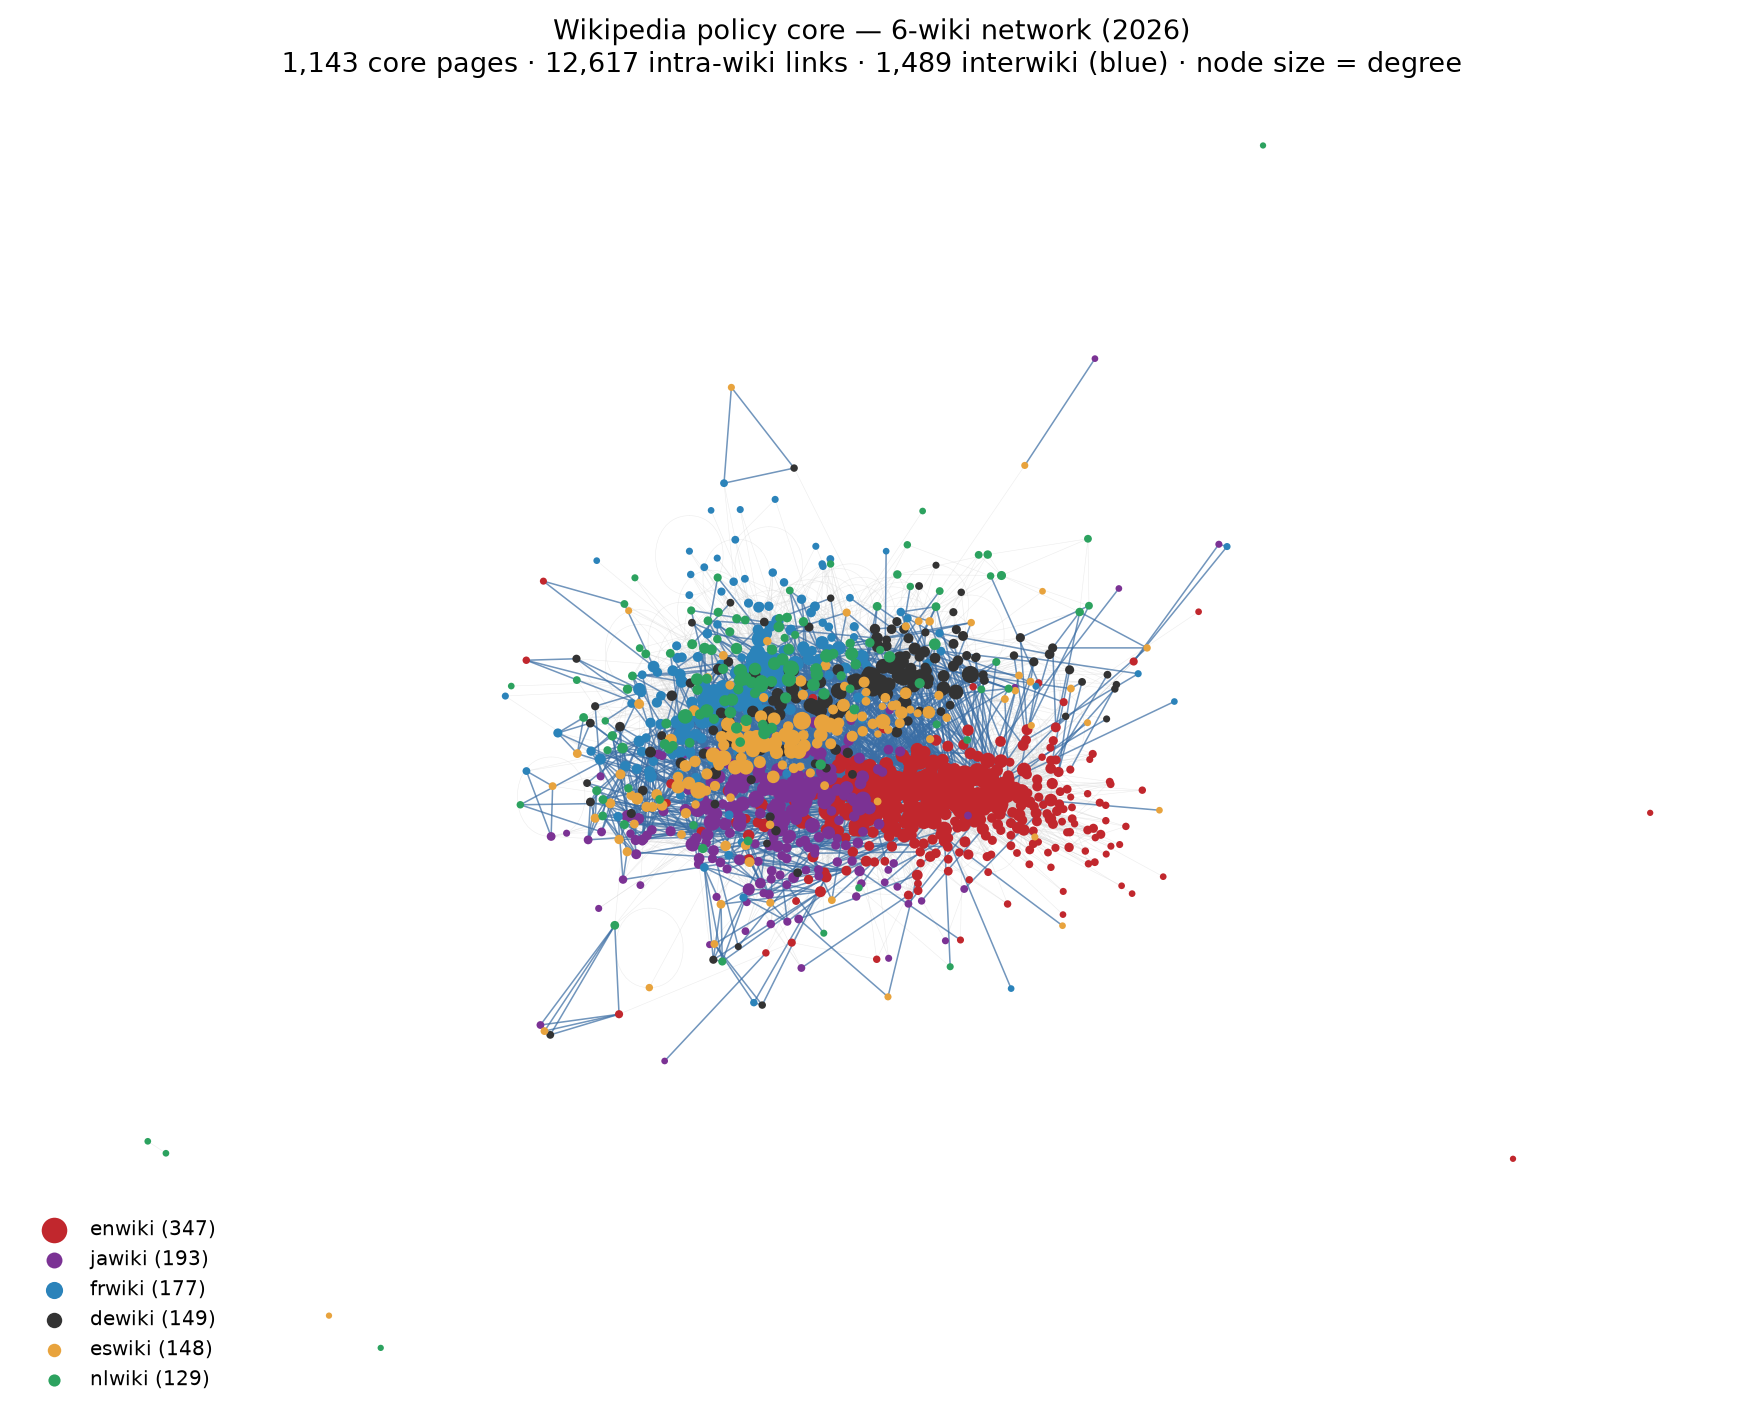
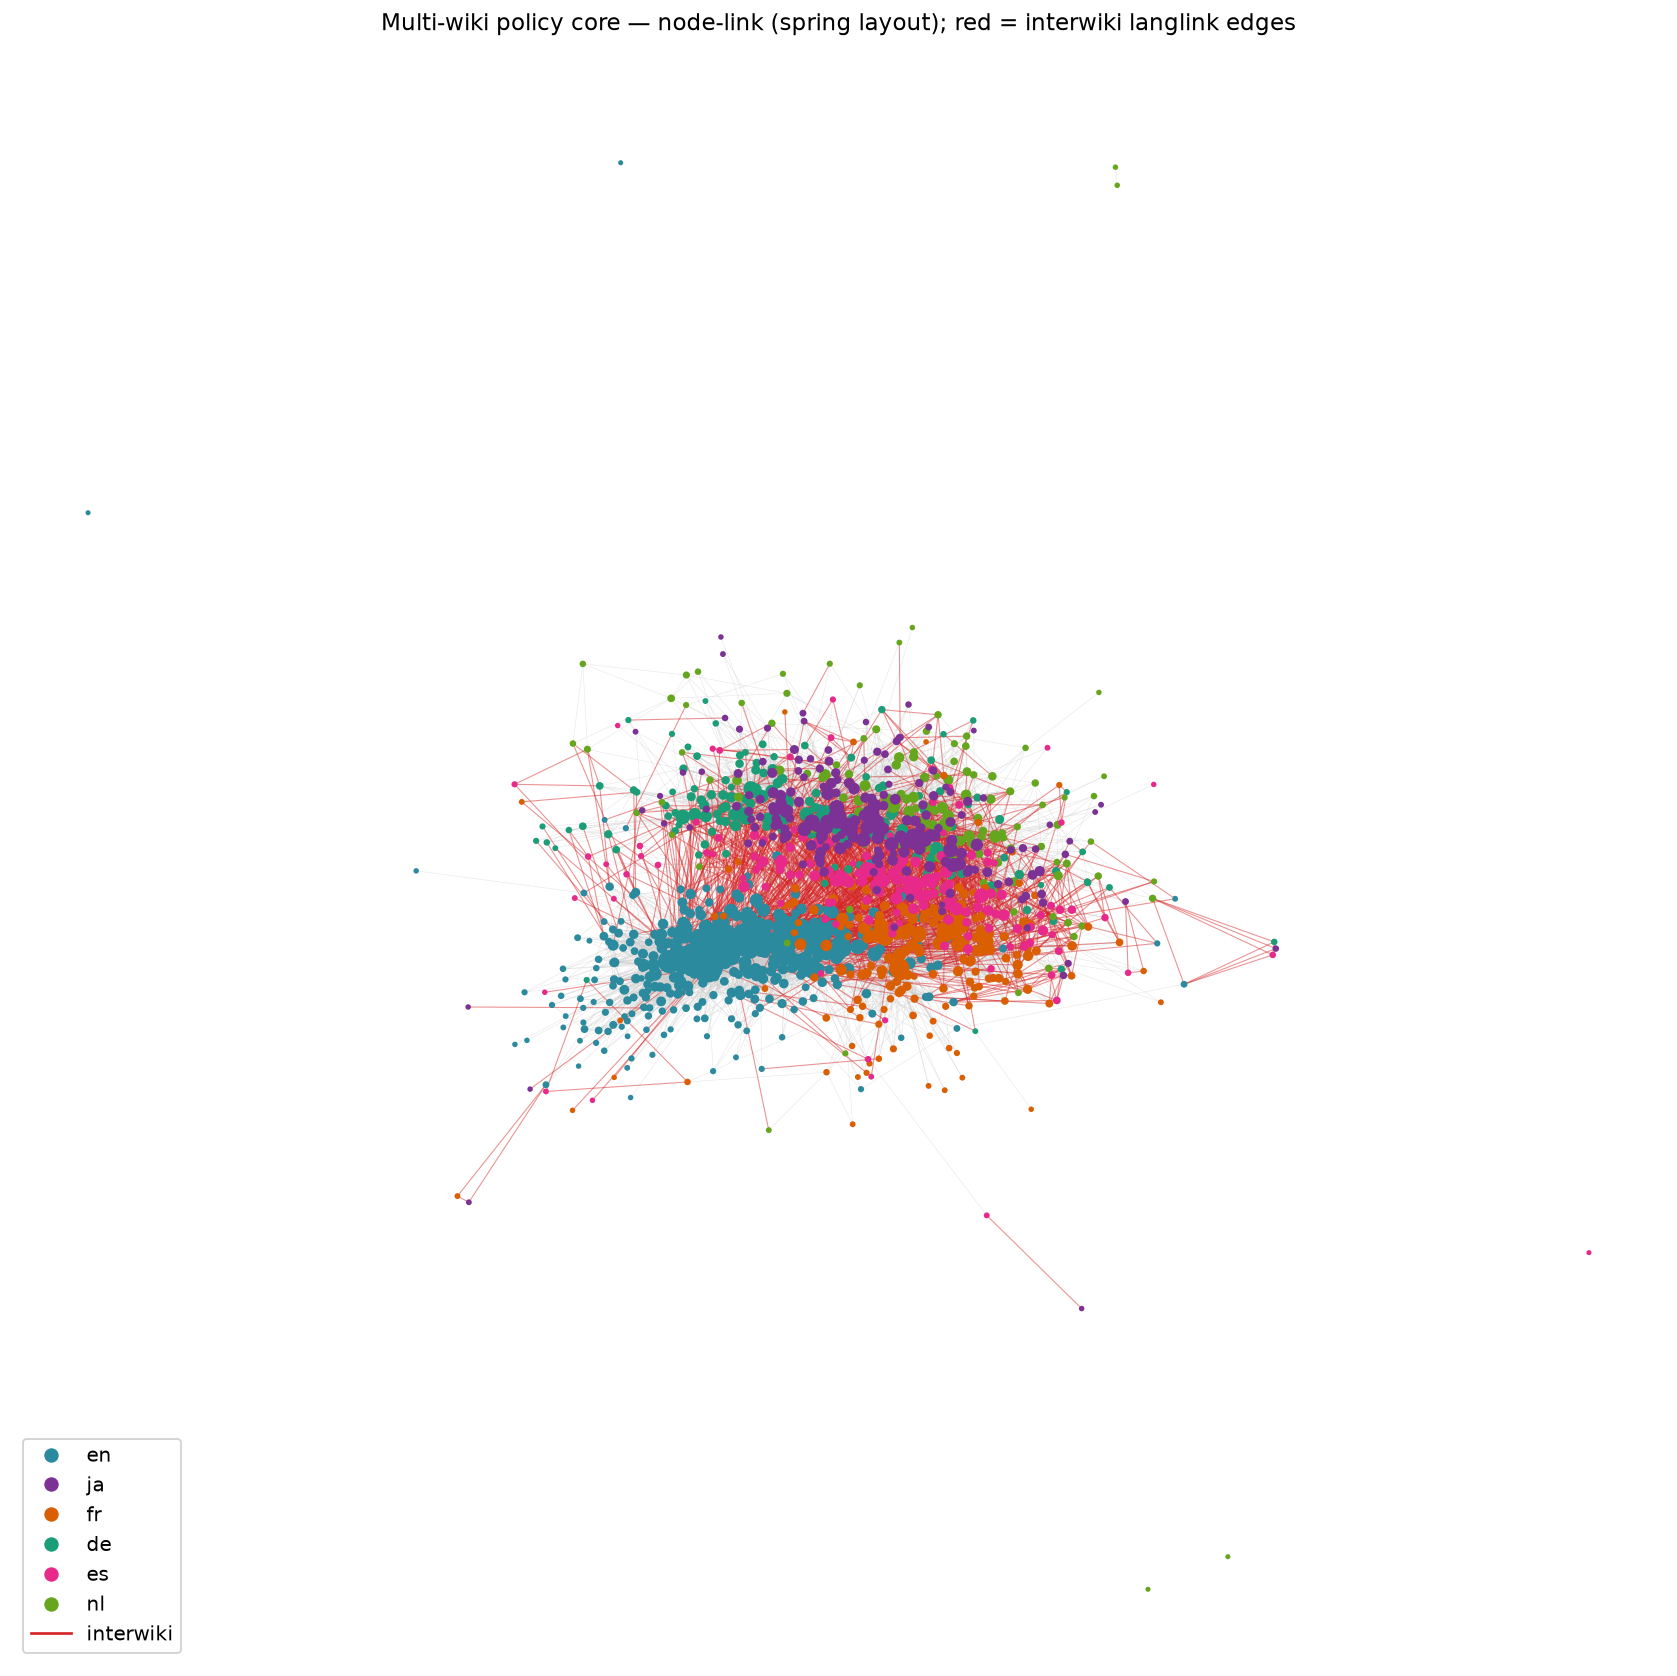
net: render_network.py — make the exploratory graphs reproducible
The overview SVG + node-link layout were one-off renders (462f786) with no
committed script. render_network.py (uv --script: matplotlib/networkx/scipy)
regenerates both from the current CSVs:
 - overview SVG now reports mean within-core degree (23.3 …), consistent with
   FINDINGS.md §3 — the old hand-built bar showed 19.0 (directed edges/node).
 - layout PNG: spring layout, nodes coloured by wiki, interwiki edges in red.
Numbers unchanged (data static since Jun 15); this closes the reproducibility gap.

diff --git a/wikipedia-policy-change/net/render_network.py b/wikipedia-policy-change/net/render_network.py
@@ -1,0 +1,157 @@
+# /// script
+# dependencies = ["matplotlib", "networkx", "scipy"]
+# ///
+"""
+render_network.py — regenerate the exploratory graphs from the current CSVs.
+
+Reproducible replacement for the one-off renders in commit 462f786. Reads
+data/network/nodes.csv + edges.csv and writes, into the same dir:
+
+  policy_network_overview.svg  — per-wiki summary: circle = #core pages,
+                                 bar = mean within-core degree; pure stdlib.
+  policy_network_layout.png    — node-link spring layout, nodes coloured by wiki,
+                                 interwiki edges drawn faintly; needs matplotlib+networkx.
+
+Metric note: "internal density" here = mean **undirected** within-core degree
+(unique core neighbours per page) — the same number reported in FINDINGS.md §3
+(en 23.3 …). edges.csv stores directed core->core wikilinks; we dedupe to
+undirected for degree.
+
+Usage:  uv run --script render_network.py [--dir ../data/network]
+"""
+
+import argparse
+import collections
+import csv
+import statistics as st
+from pathlib import Path
+
+WIKI_COLORS = {  # stable per-wiki palette
+    "enwiki": "#2b8a9e", "jawiki": "#7b3294", "frwiki": "#d95f02",
+    "dewiki": "#1b9e77", "eswiki": "#e7298a", "nlwiki": "#66a61e",
+}
+
+
+def load(d):
+    nodes = {r["node_id"]: r for r in csv.DictReader(open(d / "nodes.csv"))}
+    nbr = collections.defaultdict(set)
+    iw = []
+    for r in csv.DictReader(open(d / "edges.csv")):
+        s, t, ty = r["source"], r["target"], r["type"]
+        if s not in nodes or t not in nodes:
+            continue
+        if ty == "wikilink":
+            nbr[s].add(t); nbr[t].add(s)
+        elif ty == "interwiki":
+            iw.append((s, t))
+    return nodes, nbr, iw
+
+
+def stats(nodes, nbr, iw):
+    bywiki = collections.defaultdict(list)
+    for n, r in nodes.items():
+        bywiki[r["wiki"]].append(n)
+    wikis = sorted(bywiki, key=lambda w: -len(bywiki[w]))
+    count = {w: len(bywiki[w]) for w in wikis}
+    dens = {w: st.mean(len(nbr[n]) for n in bywiki[w]) for w in wikis}
+    return wikis, count, dens, len(iw)
+
+
+def render_svg(out, wikis, count, dens, n_iw):
+    """per-wiki summary chart — pure stdlib, no deps."""
+    short = {"enwiki": "en", "jawiki": "ja", "frwiki": "fr",
+             "dewiki": "de", "eswiki": "es", "nlwiki": "nl"}
+    xs = [95 + 100 * i for i in range(len(wikis))]
+    cmax = max(count.values()); dmax = max(dens.values())
+    L = []
+    L.append('<svg width="100%" viewBox="0 0 680 230" role="img" '
+             'xmlns="http://www.w3.org/2000/svg" '
+             'font-family="-apple-system, Segoe UI, Roboto, sans-serif">')
+    L.append('<style>.c-teal{fill:#2b8a9e}.c-purple{fill:#7b3294}'
+             '.th{fill:#fff;font-weight:700;font-size:13px}'
+             '.t{fill:#222;font-weight:600;font-size:14px}.ts{fill:#555;font-size:11px}</style>')
+    L.append('<title>Policy core by wiki</title>')
+    top = wikis[0]
+    L.append(f'<desc>Six Wikipedia editions: circle size = core policy pages, '
+             f'purple bar = mean within-core degree. {short[top]} largest '
+             f'({count[top]}) and densest ({dens[top]:.1f}).</desc>')
+    L.append('<g class="c-teal">')
+    for x, w in zip(xs, wikis):
+        r = 14 + 25 * (count[w] / cmax)
+        L.append(f'<circle cx="{x}" cy="95" r="{r:.0f}"/>'
+                 f'<text class="th" x="{x}" y="95" text-anchor="middle" '
+                 f'dominant-baseline="central">{count[w]}</text>')
+    L.append('</g>')
+    for x, w in zip(xs, wikis):
+        L.append(f'<text class="t" x="{x}" y="152" text-anchor="middle">{short[w]}</text>')
+    for x, w in zip(xs, wikis):
+        bw = 100 * (dens[w] / dmax)
+        L.append(f'<rect class="c-purple" x="{x-50:.0f}" y="164" width="{bw:.0f}" height="8" rx="2"/>')
+        L.append(f'<text class="ts" x="{x}" y="186" text-anchor="middle">{dens[w]:.1f}</text>')
+    L.append('<circle class="c-teal" cx="48" cy="212" r="6"/>'
+             '<text class="ts" x="60" y="212" text-anchor="start" '
+             'dominant-baseline="central">core pages</text>')
+    L.append('<rect class="c-purple" x="170" y="207" width="18" height="9" rx="2"/>'
+             '<text class="ts" x="194" y="212" text-anchor="start" '
+             'dominant-baseline="central">mean within-core degree</text>')
+    L.append(f'<text class="ts" x="450" y="212" text-anchor="start" '
+             f'dominant-baseline="central">+ {n_iw:,} interwiki links across cores</text>')
+    L.append('</svg>')
+    (out).write_text("\n".join(L), encoding="utf-8")
+
+
+def render_layout(out, nodes, nbr, iw):
+    import matplotlib
+    matplotlib.use("Agg")
+    import matplotlib.pyplot as plt
+    import networkx as nx
+    G = nx.Graph()
+    for n in nodes:
+        G.add_node(n)
+    for u, ns in nbr.items():
+        for v in ns:
+            if u < v:
+                G.add_edge(u, v, kind="wikilink")
+    for u, v in iw:
+        G.add_edge(u, v, kind="interwiki")
+    pos = nx.spring_layout(G, seed=42, k=0.25, iterations=60)
+    fig, ax = plt.subplots(figsize=(13, 13))
+    wl = [(u, v) for u, v, k in G.edges(data="kind") if k == "wikilink"]
+    il = [(u, v) for u, v, k in G.edges(data="kind") if k == "interwiki"]
+    nx.draw_networkx_edges(G, pos, edgelist=wl, edge_color="#cccccc", width=0.3, alpha=0.5, ax=ax)
+    nx.draw_networkx_edges(G, pos, edgelist=il, edge_color="#d62728", width=0.6, alpha=0.5, ax=ax)
+    cols = [WIKI_COLORS.get(nodes[n]["wiki"], "#888") for n in G.nodes]
+    deg = dict(G.degree())
+    sizes = [8 + 1.3 * deg[n] for n in G.nodes]
+    nx.draw_networkx_nodes(G, pos, node_color=cols, node_size=sizes,
+                           linewidths=0, ax=ax)
+    handles = [plt.Line2D([0], [0], marker="o", color="w", label=w[:-4],
+                          markerfacecolor=c, markersize=9)
+               for w, c in WIKI_COLORS.items()]
+    handles.append(plt.Line2D([0], [0], color="#d62728", label="interwiki", lw=1.5))
+    ax.legend(handles=handles, loc="lower left", fontsize=11, framealpha=0.9)
+    ax.set_title("Multi-wiki policy core — node-link (spring layout); "
+                 "red = interwiki langlink edges", fontsize=13)
+    ax.axis("off")
+    fig.tight_layout()
+    fig.savefig(out, dpi=130, bbox_inches="tight")
+    plt.close(fig)
+
+
+def main():
+    ap = argparse.ArgumentParser()
+    ap.add_argument("--dir", default=str(Path(__file__).parent.parent / "data" / "network"))
+    a = ap.parse_args()
+    d = Path(a.dir)
+    nodes, nbr, iw = load(d)
+    wikis, count, dens, n_iw = stats(nodes, nbr, iw)
+    print("per-wiki: " + " · ".join(f"{w[:2]} {count[w]}/{dens[w]:.1f}" for w in wikis)
+          + f"  · interwiki {n_iw}")
+    render_svg(d / "policy_network_overview.svg", wikis, count, dens, n_iw)
+    print(f"wrote {d/'policy_network_overview.svg'}")
+    render_layout(d / "policy_network_layout.png", nodes, nbr, iw)
+    print(f"wrote {d/'policy_network_layout.png'}")
+
+
+if __name__ == "__main__":
+    main()